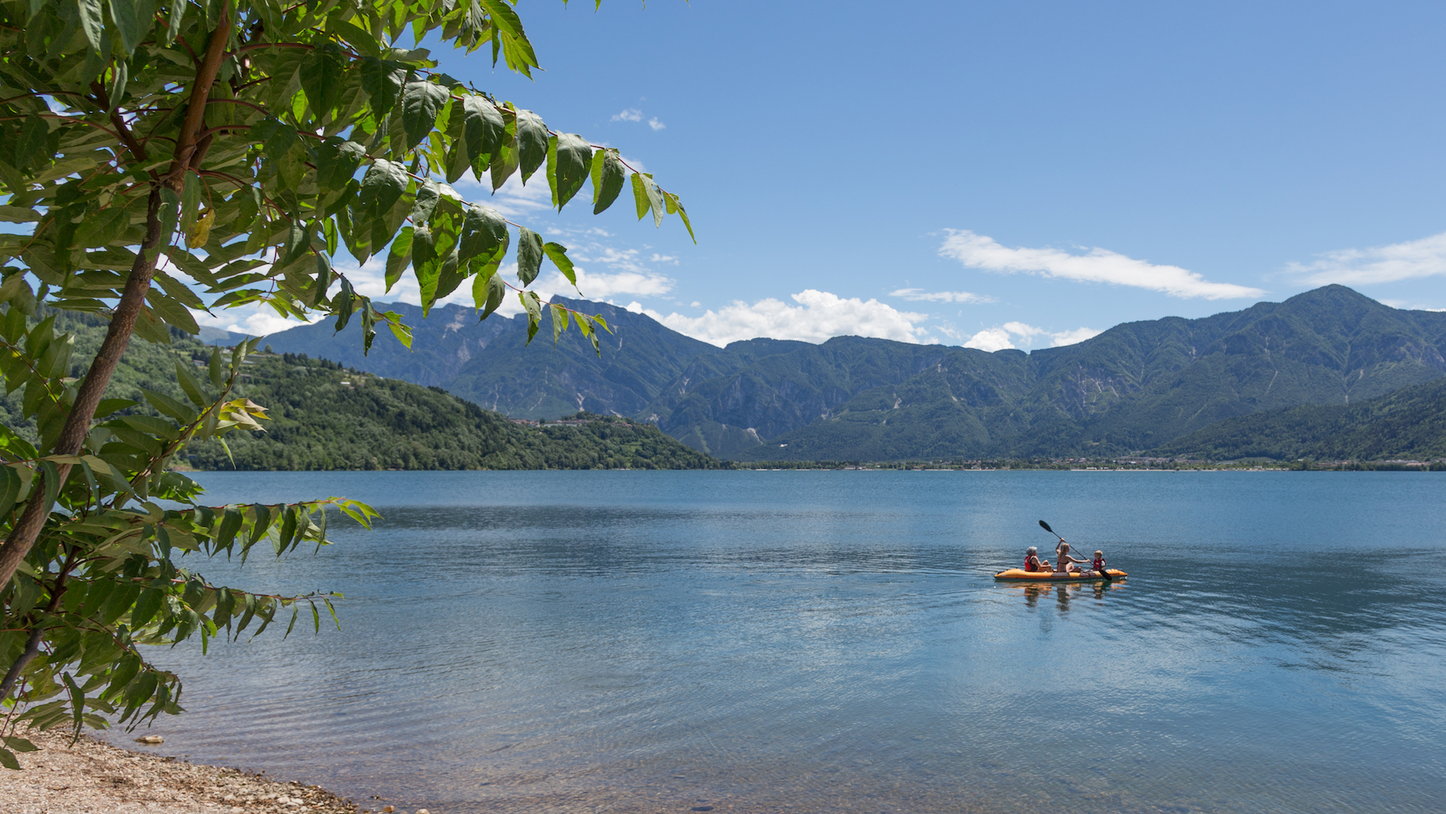
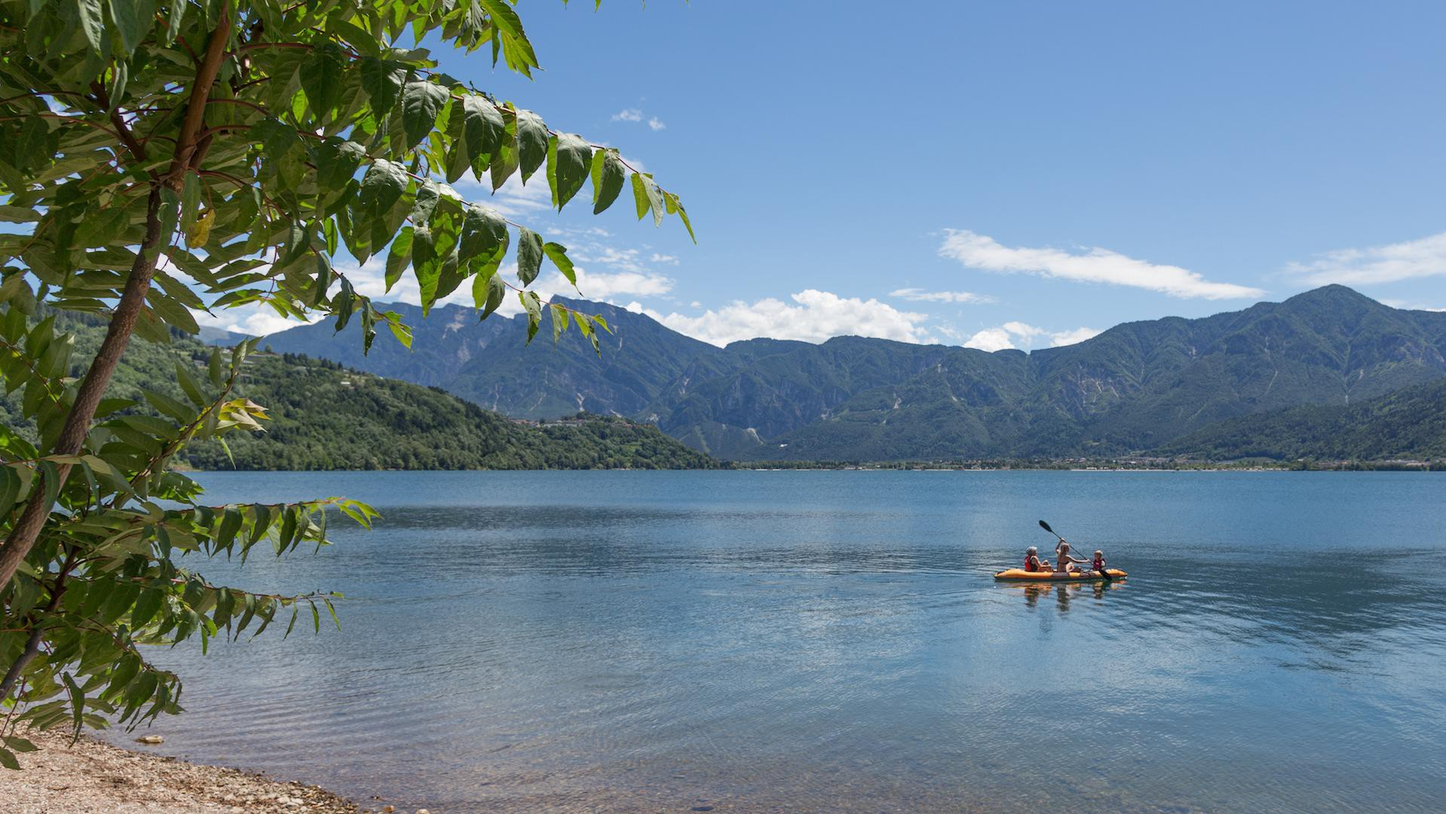
Do not saturate the bandwidth

diff --git a/pages/offerte.tpl.html b/pages/offerte.tpl.html
@@ -10,7 +10,7 @@
 
         <style type="text/css">
             .hero.main-hero {
-                background: url('/images/Promotions/CampingPuntaIndiani_RelaxOnTheBeach_asHeadr.png') no-repeat center;
+                background: url('/images/Promotions/CampingPuntaIndiani_RelaxOnTheBeach_asHeadr.jpg') no-repeat center;
                 -webkit-background-size: cover;
                 -moz-background-size: cover;
                 -o-background-size: cover;
@@ -58,7 +58,7 @@
                             <div class="media-content">
                                 <div class="content">
                                     <figure class="media-left is-pulled-left">
-                                        <p class="image is-128x128">
+                                        <p class="image is-128x128" style="height:auto">
                                             <img src="/images/Team/CampingPuntaIndiani_Team_RenzoPiffer_and_AnitaMaines.jpg" class="has-shadow-1">
                                         </p>
                                     </figure>
@@ -84,8 +84,8 @@
                             <div class="media-content">
                                 <div class="content">
                                     <figure class="media-right is-pulled-right">
-                                        <p class="image is-128x128 has-shadow-1">
-                                            <img src="/images/Team/CampingPuntaIndiani_Team_LorenzaPiffer_and_StefanoBrugnara_512x512.jpg">
+                                        <p class="image is-128x128">
+                                            <img class="has-shadow-1" src="/images/Team/CampingPuntaIndiani_Team_LorenzaPiffer_and_StefanoBrugnara.jpg">
                                         </p>
                                     </figure>
                                     <p class="has-text-right"><small class="is-hidden-mobile">snd. gen </small><strong>Lorenza &amp; Stefano</strong><small class="is-block-mobile is-hidden-tablet">snd. gen</small></p>
@@ -108,11 +108,11 @@
                             <div class="media-content">
                                 <div class="content">
                                     <figure class="media-left is-pulled-left">
-                                        <p class="image is-128x128 has-shadow-1">
-                                            <img src="/images/Team/CampingPuntaIndiani_Team_GiadaBrugnara_512x512.jpg">
+                                        <p class="image is-128x128" style="height:auto">
+                                            <img class="has-shadow-1" src="/images/Team/CampingPuntaIndiani_Team_MartinBrugnara_and_GiadaBrugnara.jpg">
                                         </p>
                                     </figure>
-                                    <p><strong>Giada</strong> <small class="is-block-mobile">trd. gen</small></p>
+                                    <p><strong>Martin &amp; Giada</strong> <small class="is-block-mobile">trd. gen</small></p>
                                     <p class="subtitle is-3">
                                         {{ _('Vi aspettiamo!') }}
                                     </p>

diff --git a/pages/panorama.tpl.html b/pages/panorama.tpl.html
@@ -10,7 +10,7 @@
 
         <style type="text/css">
             .hero.panorama-hero {
-                background: url('/images/Accomodations/CampingPuntaIndiani_AccomodationPanorama_BeautifulCaldonzzoLakeView_asHeader.png') no-repeat center;
+                background: url('/images/Accomodations/CampingPuntaIndiani_AccomodationPanorama_BeautifulCaldonzzoLakeView_asHeader.jpg') no-repeat center;
                 -webkit-background-size: cover;
                 -moz-background-size: cover;
                 -o-background-size: cover;
@@ -83,9 +83,9 @@
 
             <div class="container">
                 <div class="columns">
-                    <figure class="column is-one-third image is3by2"><img src="/images/Accomodations/CampingPuntaIndiani_AccomodationPanorama_BeautifulCaldonzzoLakeView_OverTheBridge.png"></figure>
-                    <figure class="column is-one-third image is3by2"><img src="/images/Accomodations/CampingPuntaIndiani_AccomodationPanorama_BeautifulCaldonzzoLakeView_Tent.png"></figure>
-                    <figure class="column is-one-third image is3by2"><img src="/images/Accomodations/CampingPuntaIndiani_AccomodationPanorama_BeautifulCaldonzzoLakeView_Family.png"></figure>
+                    <figure class="column is-one-third image is3by2"><img src="/images/Accomodations/CampingPuntaIndiani_AccomodationPanorama_BeautifulCaldonzzoLakeView_OverTheBridge.jpg"></figure>
+                    <figure class="column is-one-third image is3by2"><img src="/images/Accomodations/CampingPuntaIndiani_AccomodationPanorama_BeautifulCaldonzzoLakeView_Tent.jpg"></figure>
+                    <figure class="column is-one-third image is3by2"><img src="/images/Accomodations/CampingPuntaIndiani_AccomodationPanorama_BeautifulCaldonzzoLakeView_Family.jpg"></figure>
                 </div>
             </div>
 
@@ -93,7 +93,7 @@
 
             <div class="container content has-text-centered">
                 <p><a href="index.html#{{ _('piazzole') }}" class="link is-secondary is-fullwidth">{{ _('ritorna alla home page') }}</a></p>
-                <p><a href="index.html?pitch=panorama#{{ _('prenota') }}" class="button is-warning is-large is-fullwidth">{{ _('prenota') }}&nbsp;{{ _('ora') }}&nbsp;PANORAMA</a></p>
+                <p><a href="index.html?pitch=panorama#{{ _('prenota') }}" class="button is-upper is-warning is-large is-fullwidth">{{ _('prenota') }}&nbsp;{{ _('ora') }}&nbsp;PANORAMA</a></p>
             </div>
         </section>
 

diff --git a/pages/aqva.tpl.html b/pages/aqva.tpl.html
@@ -10,7 +10,7 @@
 
         <style type="text/css">
             .hero.aqva-hero {
-                background: url('/images/Accomodations/CampingPuntaIndiani_AccomodationAqva_TentOnCaldonazzoLakeBeach_asHeader.png') no-repeat center;
+                background: url('/images/Accomodations/CampingPuntaIndiani_AccomodationAqva_TentOnCaldonazzoLakeBeach_asHeader.jpg') no-repeat center;
                 -webkit-background-size: cover;
                 -moz-background-size: cover;
                 -o-background-size: cover;
@@ -84,9 +84,9 @@
 
             <div class="container">
                 <div class="columns">
-                    <figure class="column is-one-third image is3by2"><img src="/images/Accomodations/CampingPuntaIndiani_AccomodationAqva_CaravanOnCaldonazzoLakeBeach.png"></figure>
-                    <figure class="column is-one-third image is3by2"><img src="/images/Accomodations/CampingPuntaIndiani_AccomodationAqva_TentOnCaldonazzoLakeBeach.png"></figure>
-                    <figure class="column is-one-third image is3by2"><img src="/images/Accomodations/CampingPuntaIndiani_AccomodationAqva_CamperOnCaldonazzoLakeBeach.png"></figure>
+                    <figure class="column is-one-third image is3by2"><img src="/images/Accomodations/CampingPuntaIndiani_AccomodationAqva_CaravanOnCaldonazzoLakeBeach.jpg"></figure>
+                    <figure class="column is-one-third image is3by2"><img src="/images/Accomodations/CampingPuntaIndiani_AccomodationAqva_TentOnCaldonazzoLakeBeach.jpg"></figure>
+                    <figure class="column is-one-third image is3by2"><img src="/images/Accomodations/CampingPuntaIndiani_AccomodationAqva_CamperOnCaldonazzoLakeBeach.jpg"></figure>
                 </div>
             </div>
 
@@ -94,7 +94,7 @@
 
             <div class="container content has-text-centered">
                 <p><a href="index.html#{{ _('piazzole') }}" class="link is-secondary is-fullwidth">{{ _('ritorna alla home page') }}</a></p>
-                <p><a href="index.html?pitch=aqva#{{ _('prenota') }}" class="button is-info is-large is-fullwidth">{{ _('prenota') }}&nbsp;{{ _('ora') }}&nbsp;AQVA</a></p>
+                <p><a href="index.html?pitch=aqva#{{ _('prenota') }}" class="button is-upper is-info is-large is-fullwidth">{{ _('prenota') }}&nbsp;{{ _('ora') }}&nbsp;AQVA</a></p>
             </div>
         </section>
 

diff --git a/pages/relax.tpl.html b/pages/relax.tpl.html
@@ -10,7 +10,7 @@
 
         <style type="text/css">
             .hero.relax-hero {
-                background: url('/images/Accomodations/CampingPuntaIndiani_AccomodationRelax_TheHill_asHeader.png') no-repeat center;
+                background: url('/images/Accomodations/CampingPuntaIndiani_AccomodationRelax_TheHill_asHeader.jpg') no-repeat center;
                 -webkit-background-size: cover;
                 -moz-background-size: cover;
                 -o-background-size: cover;
@@ -85,8 +85,8 @@
             <div class="container">
                 <div class="columns">
                     <figure class="column is-one-third image is3by2"><img src="/images/Accomodations/CampingPuntaIndiani_AccomodationRelax_InTheNature.jpg"></figure>
-                    <figure class="column is-one-third image is3by2"><img src="/images/Accomodations/CampingPuntaIndiani_AccomodationRelax_Romantic.png"></figure>
-                    <figure class="column is-one-third image is3by2"><img src="/images/Accomodations/CampingPuntaIndiani_AccomodationRelax_DogWelcome.png"></figure>
+                    <figure class="column is-one-third image is3by2"><img src="/images/Accomodations/CampingPuntaIndiani_AccomodationRelax_Romantic.jpg"></figure>
+                    <figure class="column is-one-third image is3by2"><img src="/images/Accomodations/CampingPuntaIndiani_AccomodationRelax_DogWelcome.jpg"></figure>
                 </div>
             </div>
 
@@ -94,7 +94,7 @@
 
             <div class="container content has-text-centered">
                 <p><a href="index.html#{{ _('piazzole') }}" class="link is-secondary is-fullwidth">{{ _('ritorna alla home page') }}</a></p>
-                <p><a href="index.html?pitch=relax#{{ _('prenota') }}" class="button is-success is-large is-fullwidth">{{ _('prenota') }}&nbsp;{{ _('ora') }}&nbsp;RELAX</a></p>
+                <p><a href="index.html?pitch=relax#{{ _('prenota') }}" class="button is-upper is-success is-large is-fullwidth">{{ _('prenota') }}&nbsp;{{ _('ora') }}&nbsp;RELAX</a></p>
             </div>
         </section>
 

diff --git a/pages/index.tpl.html b/pages/index.tpl.html
@@ -905,13 +905,13 @@
                 <figure class="image is-48h"><img src="/images/Agreements/trentino.png" alt="Trentino"></img></figure>
                 <figure class="image is-48h"><img src="/images/Agreements/valsugana.png" alt="Valsugana"></img></figure>
 
-                <figure class="image is-48h"><img src="/images/Agreements/adac.png" alt="ADAC"></img></figure>
+                <figure class="image is-48h"><img src="/images/Agreements/adac.jpg" alt="ADAC"></img></figure>
                 <figure class="image is-48h"><img src="/images/Agreements/anwb.png" alt="ANWB"></img></figure>
                 <figure class="image is-48h"><img src="/images/Agreements/acsi.png" alt="ACSI"></img></figure>
 
                 <figure class="image is-48h"><img src="/images/Agreements/campingit.png" alt="Camping.it"></img></figure>
 
-                <figure class="image is-48h"><img src="/images/Agreements/dcc.png" alt="DCC"></img></figure>
+                <figure class="image is-48h"><img src="/images/Agreements/dcc.jpg" alt="DCC"></img></figure>
                 <figure class="image is-48h"><img src="/images/Agreements/ecc.png" alt="ECC"></img></figure>
 
                 <figure class="image is-48h"><img src="/images/Agreements/alan_rogers.png" alt="Alan Rogers"></img></figure>

diff --git a/pages/home.tpl.html b/pages/home.tpl.html
@@ -5,3 +5,6 @@
         <meta name="robots" content="noindex,follow">
         <meta http-equiv="refresh" content="0; url=./">
     </head>
+    <body>
+    </body>
+</html>
